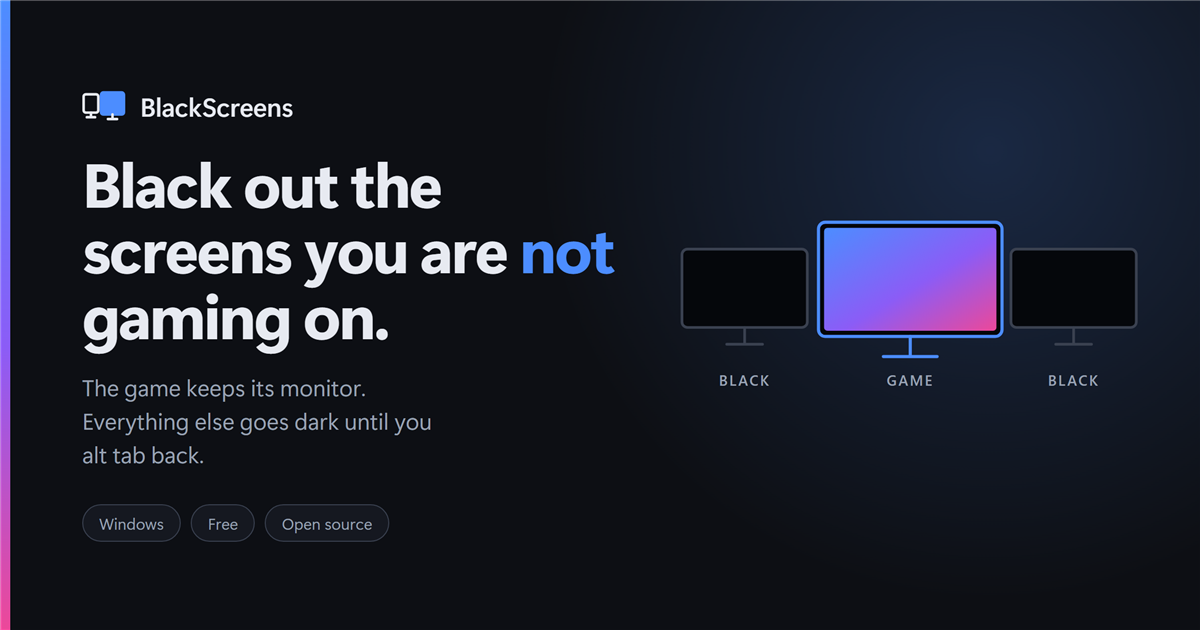
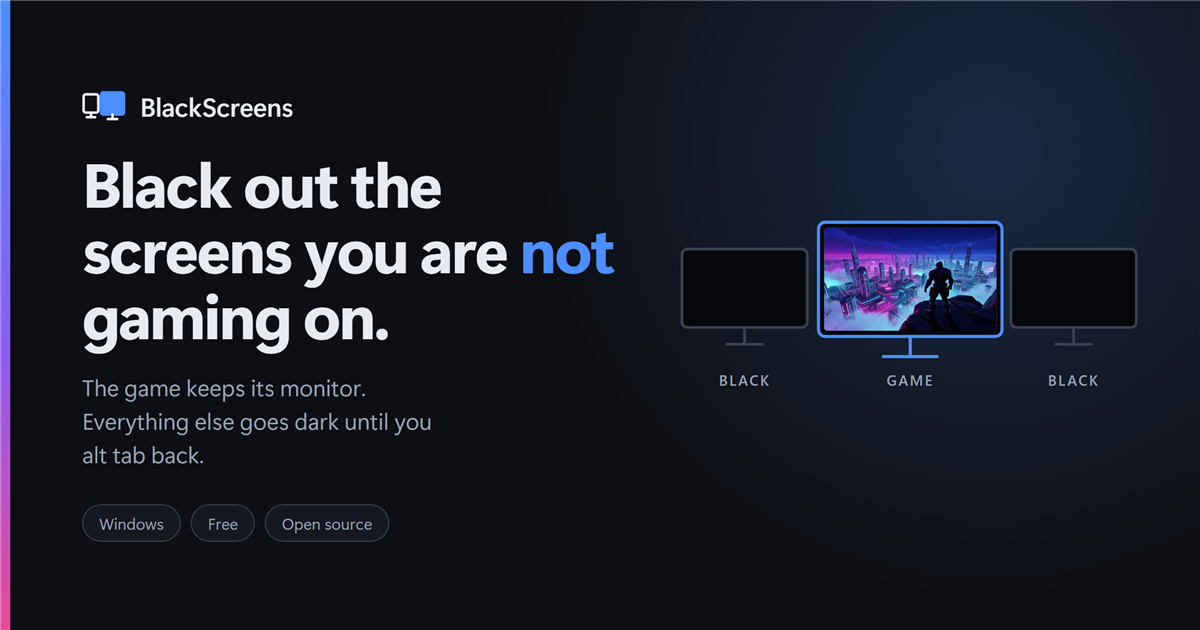
Put real game art on the centre monitor
The middle screen was a flat gradient standing in for "a game". It is now a
neon lit city scene generated with FLUX.2 through fal, picked from three
candidates for the strongest silhouette, since the card has to survive being
shrunk to a chat thumbnail.

One 47 KB asset serves both the link preview card and the site hero. The
gradient stays underneath as a fallback if the image ever fails to load.

Changed region(s): [[0.6783, 0.3619, 0.8325, 0.5429]]

diff --git a/docs/index.html b/docs/index.html
@@ -154,13 +154,16 @@
       </div>
 
       <figure class="hero-figure" aria-labelledby="hero-figure-caption">
-        <svg viewBox="0 0 420 200" role="img" aria-label="Three monitors: the side screens are black, the middle one is running a game">
+        <svg viewBox="0 0 420 200" role="img" aria-label="Three monitors: the side screens are black, the middle one is running a neon lit game">
           <defs>
             <linearGradient id="game" x1="0" y1="0" x2="1" y2="1">
               <stop offset="0%" stop-color="#4c8dff"/>
               <stop offset="55%" stop-color="#8b5cf6"/>
               <stop offset="100%" stop-color="#ec4899"/>
             </linearGradient>
+            <clipPath id="game-screen">
+              <rect x="134" y="28" width="152" height="92" rx="3"/>
+            </clipPath>
           </defs>
 
           <g class="screen off">
@@ -171,6 +174,8 @@
           <g class="screen on">
             <rect x="130" y="24" width="160" height="100" rx="5"/>
             <rect class="fill" x="134" y="28" width="152" height="92" rx="3" fill="url(#game)"/>
+            <image href="assets/game.jpg" x="134" y="28" width="152" height="92"
+                   preserveAspectRatio="xMidYMid slice" clip-path="url(#game-screen)"/>
             <path d="M210 124v16M188 140h44"/>
           </g>
 

diff --git a/scripts/og-image.html b/scripts/og-image.html
@@ -161,6 +161,9 @@
         <stop offset="55%" stop-color="#8b5cf6"/>
         <stop offset="100%" stop-color="#ec4899"/>
       </linearGradient>
+      <clipPath id="screen">
+        <rect x="133" y="47" width="154" height="92" rx="3"/>
+      </clipPath>
     </defs>
 
     <g stroke="#3a4150" stroke-width="2.4" stroke-linecap="round">
@@ -174,6 +177,8 @@
     <g stroke="#4c8dff" stroke-width="2.8" stroke-linecap="round">
       <rect x="128" y="42" width="164" height="102" rx="6" fill="#05070b"/>
       <rect x="133" y="47" width="154" height="92" rx="3" fill="url(#game)" stroke="none"/>
+      <image href="../docs/assets/game.jpg" x="133" y="47" width="154" height="92"
+             preserveAspectRatio="xMidYMid slice" clip-path="url(#screen)"/>
       <path d="M210 144v18M186 162h48"/>
     </g>
 
